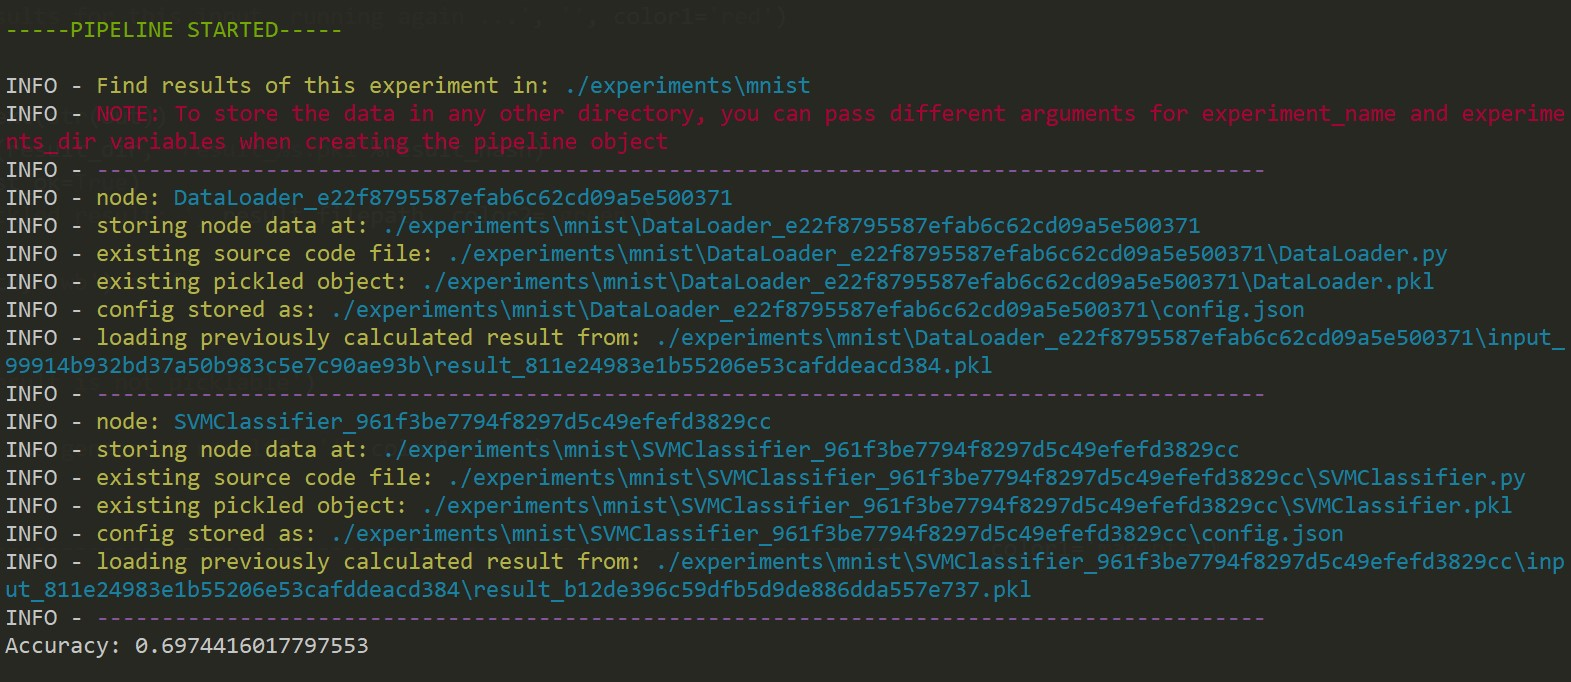
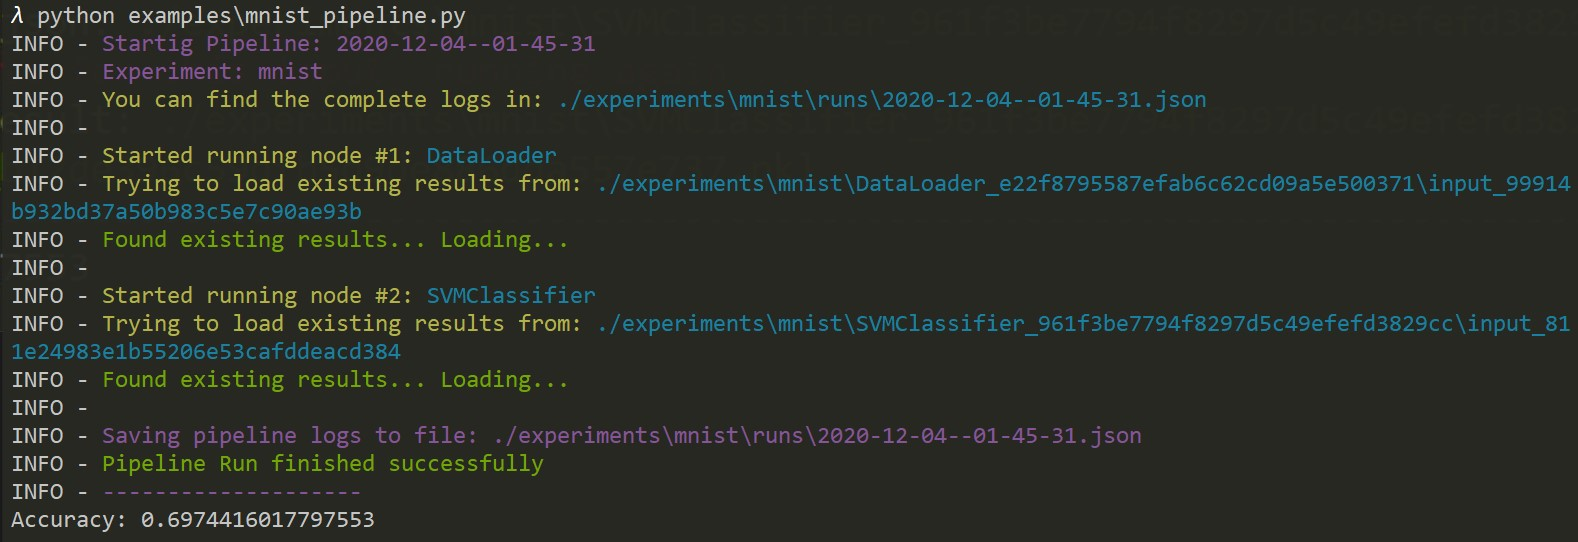
Updated documentation and minor changes in printing logs

Changed region(s): [[0.0, 0.0, 0.9981, 0.9742]]

diff --git a/fastpipeline/pipeline.py b/fastpipeline/pipeline.py
@@ -96,8 +96,9 @@ class Pipeline:
         """
         # Create a directory for this experiment if not already there
         os.makedirs(self.savedir, exist_ok=True)
+        # colored_logging('-------------------------------', color1='magenta')
+        colored_logging('Startig Pipeline: %s'%self.log['id'], color1='magenta')
         colored_logging('Experiment: %s'%self.experiment_name, color1='magenta')
-        colored_logging('Pipeline: %s'%self.log['id'], color1='magenta')
         colored_logging('You can find the complete logs in: ', self.pipeline_logpath)
 
         for i, node in enumerate(self.nodes):
@@ -108,8 +109,13 @@ class Pipeline:
             input = out
         
         # Save log to file
+        colored_logging('', color1='magenta')
+        colored_logging('Saving pipeline logs to file: %s'%self.pipeline_logpath, color1='magenta')
+        colored_logging('Pipeline Run finished successfully', color1='green')
+        colored_logging('--------------------', color1='magenta')
         with open(self.pipeline_logpath, "w") as f:
             json.dump(self.log, f, indent=4, sort_keys=True)
+
         
         return out
 

diff --git a/examples/mnist_pipeline.py b/examples/mnist_pipeline.py
@@ -59,7 +59,7 @@ class SVMClassifier(BaseNode):
 if __name__ == "__main__":
     # Initialize the nodes
     dl_node = DataLoader()
-    svm_node = SVMClassifier({'gamma': 0.01})
+    svm_node = SVMClassifier({'gamma': 0.03})
 
     # Create the pipeline
     pipeline = Pipeline('mnist', [dl_node, svm_node])

diff --git a/docs/index.md b/docs/index.md
@@ -145,7 +145,7 @@ Since all the intermediate outputs are already computed, the pipeline just reloa
 * Let's make a change to the value of config inside `__main__`:
 ```Python
 # svm_node = SVMClassifier({'gamma': 0.01})
-svm_node = SVMClassifier({'gamma': 0.05})
+svm_node = SVMClassifier({'gamma': 0.03})
 ```
 * Run the pipeline again. You'll see something like:
 
@@ -155,5 +155,37 @@ svm_node = SVMClassifier({'gamma': 0.05})
 This time it used the result from first node as-is and recomputed for second node, since we made a change to the config. 
 
 **If you make any changes to the class `SVMClassifier` same thing will happen again. To learn more about this you can look at [About](about.md) section**
+
+The logs of a pipeline run are saved as json files and are of the form `yyyy-mm-dd--hh-mm-ss`. For us the one generated in the final run is: `2020-12-04--01-46-46.json`
+```json
+{
+    "id": "2020-12-04--01-46-46",
+    "nodes": {
+        "1": {
+            "config_json_filepath": "./experiments\\mnist\\DataLoader_e22f8795587efab6c62cd09a5e500371\\config.json",
+            "node_dir": "./experiments\\mnist\\DataLoader_e22f8795587efab6c62cd09a5e500371",
+            "node_hash": "e22f8795587efab6c62cd09a5e500371",
+            "node_name": "DataLoader",
+            "object_code_filepath": "./experiments\\mnist\\DataLoader_e22f8795587efab6c62cd09a5e500371\\DataLoader.py",
+            "object_pickle_filepath": "./experiments\\mnist\\DataLoader_e22f8795587efab6c62cd09a5e500371\\DataLoader.pkl",
+            "result_filepath": "./experiments\\mnist\\DataLoader_e22f8795587efab6c62cd09a5e500371\\input_99914b932bd37a50b983c5e7c90ae93b\\result_811e24983e1b55206e53cafddeacd384.pkl",
+            "reused_result": true
+        },
+        "2": {
+            "config_json_filepath": "./experiments\\mnist\\SVMClassifier_eb56fc945f1e51d2df2306adcdf0946b\\config.json",
+            "node_dir": "./experiments\\mnist\\SVMClassifier_eb56fc945f1e51d2df2306adcdf0946b",
+            "node_hash": "eb56fc945f1e51d2df2306adcdf0946b",
+            "node_name": "SVMClassifier",
+            "object_code_filepath": "./experiments\\mnist\\SVMClassifier_eb56fc945f1e51d2df2306adcdf0946b\\SVMClassifier.py",
+            "object_pickle_filepath": "./experiments\\mnist\\SVMClassifier_eb56fc945f1e51d2df2306adcdf0946b\\SVMClassifier.pkl",
+            "result_filepath": "./experiments\\mnist\\SVMClassifier_eb56fc945f1e51d2df2306adcdf0946b\\input_811e24983e1b55206e53cafddeacd384\\result_9eab81159e86abf42ac527566644e927.pkl",
+            "reused_result": false
+        }
+    }
+}
+```
+As you can see, it tells you the paths of all data which have been saved, also tells you if a result was reused from a previous run. We'll keep on working to make these logs more informative and useful in the future.
+
+
 
 
